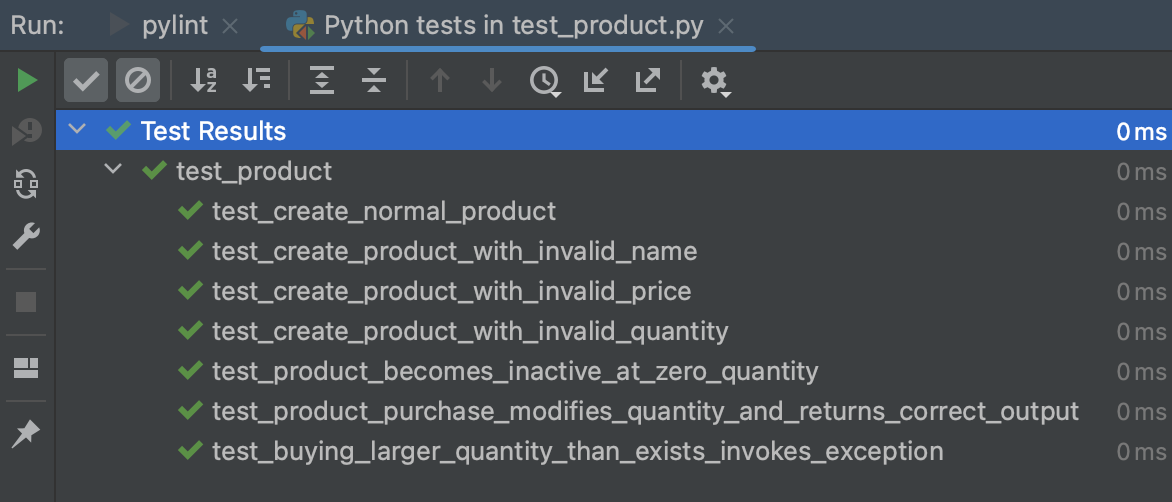
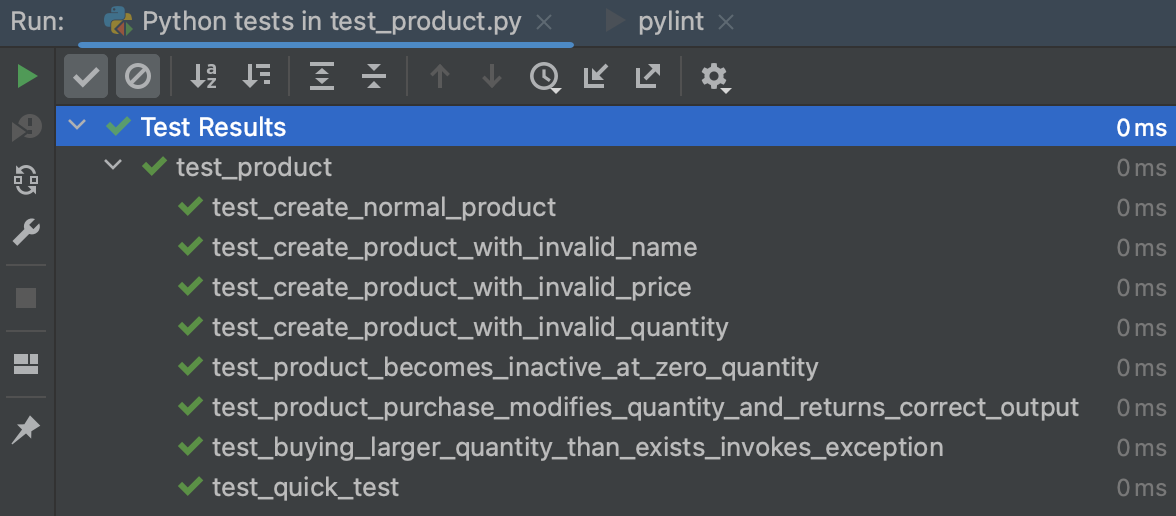
5th commit

diff --git a/store.py b/store.py
@@ -24,62 +24,6 @@ from typing import List, Tuple, Optional
 from products import Product, NonStockedProduct, LimitedProduct
 
 
-def order_intro():
-    """
-	Provides an introduction to the ordering process.
-	"""
-    # start the shopping
-    print("\nEnter the number of the item you want to order (or 0 to cancel)")
-    # When you want to finish order, enter empty text.
-    print("To proceed with the checkout, simply input an empty text.")
-
-
-def make_option_list(start: int, end: int) -> List[str]:
-    """
-	Create a list of string options based on the provided range.
-
-	:param start: (int) The starting number of the range (inclusive)
-	:param end: (int) The ending number of the range (exclusive)
-
-	:return: (List[str]) A list of string options.
-	"""
-    # prepare the valid options menu
-    options = []
-    for num in range(start, end):
-        options.append(str(num))
-    options.append("")
-    return options
-
-
-def find_quantity_of_added_item(lst, product_name):
-    """
-    Search for a specific product by its name and returns the quantity that has been ordered
-
-    :param lst: (list) The order list, a list of tuples containing product name and its quantity.
-    :param product_name: (str) The name of the product to search for in the list.
-
-    :return: int: The quantity of the product that has been ordered if found, -1 otherwise.
-    """
-    for name, items_count in lst:
-        if name == product_name:
-            return items_count
-    return -1
-
-
-def display_limit_message(product_limit, product_name):
-    """
-    Displays a limit message indicating the maximum allowed quantity for a product.
-
-    :param product_limit: (int): The maximum allowed quantity for the product.
-    :param product_name: (str): The name of the product.
-    :return: None
-    """
-    if product_limit == 1:
-        print(f"Sorry, Only {product_limit} unit is allowed from {product_name}.")
-    else:
-        print(f"Sorry, Only {product_limit} units are allowed from {product_name}.")
-
-
 class Store:
     """
 	A class representing a store
@@ -98,6 +42,62 @@ class Store:
 	"""
     # The maximum number of items allowed as per the policy
     OUR_POLICY_MAX_ALLOWED_ITEMS = 10000
+
+    @classmethod
+    def order_intro(cls):
+        """
+    	Provides an introduction to the ordering process.
+    	"""
+        # start the shopping
+        print("\nEnter the number of the item you want to order (or 0 to cancel)")
+        # When you want to finish order, enter empty text.
+        print("To proceed with the checkout, simply input an empty text.")
+
+    @classmethod
+    def make_option_list(cls, start: int, end: int) -> List[str]:
+        """
+    	Create a list of string options based on the provided range.
+
+    	:param start: (int) The starting number of the range (inclusive)
+    	:param end: (int) The ending number of the range (exclusive)
+
+    	:return: (List[str]) A list of string options.
+    	"""
+        # prepare the valid options menu
+        options = []
+        for num in range(start, end):
+            options.append(str(num))
+        options.append("")
+        return options
+
+    @classmethod
+    def find_quantity_of_added_item(cls, lst, product_name):
+        """
+        Search for a specific product by its name and returns the quantity that has been ordered
+
+        :param lst: (list) The order list, a list of tuples containing product name and its quantity.
+        :param product_name: (str) The name of the product to search for in the list.
+
+        :return: int: The quantity of the product that has been ordered if found, -1 otherwise.
+        """
+        for name, items_count in lst:
+            if name == product_name:
+                return items_count
+        return -1
+
+    @classmethod
+    def display_limit_message(cls, product_limit, product_name):
+        """
+        Displays a limit message indicating the maximum allowed quantity for a product.
+
+        :param product_limit: (int): The maximum allowed quantity for the product.
+        :param product_name: (str): The name of the product.
+        :return: None
+        """
+        if product_limit == 1:
+            print(f"Sorry, Only {product_limit} unit is allowed from {product_name}.")
+        else:
+            print(f"Sorry, Only {product_limit} units are allowed from {product_name}.")
 
     def __init__(self, products):
         """
@@ -242,7 +242,7 @@ class Store:
 
             if stoked_item:
                 previously_added_quantity = \
-                    find_quantity_of_added_item(order_list, items_list[selected_index].name)
+                    Store.find_quantity_of_added_item(order_list, items_list[selected_index].name)
             else:
                 previously_added_quantity = -1  # we don't care if it is non stocked items
             quantity = self.valid_range("What amount do you want? ", range(1, max_num), stoked_item,
@@ -251,7 +251,7 @@ class Store:
             if isinstance(items_list[selected_index], LimitedProduct):
                 temp_product: LimitedProduct = items_list[selected_index]
                 if quantity > temp_product.get_limit():
-                    display_limit_message(temp_product.limit, items_list[selected_index])
+                    Store.display_limit_message(temp_product.limit, items_list[selected_index])
                     continue
 
             # if quantity is zero then cancel the current process and ignore it.
@@ -309,10 +309,10 @@ class Store:
                   "Please visit us again later! ---")
             return
 
-        order_intro()
+        Store.order_intro()
 
         # prepare the valid options menu
-        options = make_option_list(0, max_num + 1)
+        options = Store.make_option_list(0, max_num + 1)
 
         # if this is the first purchase or not
         order_list = self.init_order_list()
@@ -511,7 +511,6 @@ class Store:
             if option.isdigit():
                 if start <= int(option) <= end:
                     if non_stocked_product:
-                        # print("Already added = ", items_allready_added)
                         if previously_added_quantity > -1:
                             max_items = end - previously_added_quantity
                         else:

diff --git a/test_product.py b/test_product.py
@@ -1,5 +1,7 @@
 import pytest
-from products import Product
+from products import Product, LimitedProduct
+from store import Store
+
 
 
 def test_create_normal_product():
@@ -71,3 +73,40 @@ def test_buying_larger_quantity_than_exists_invokes_exception():
     with pytest.raises(ValueError, match=f"The {product.name} has insufficient quantity available."):
         product.buy(10)
 
+
+def test_quick_test():
+    """
+    Performs a quick test of the functionality of the Store and Product classes.
+
+    The test includes the following steps:
+    1. Initializes the initial stock of inventory with specific products.
+    2. Attempts to set a negative price for a product, which should raise a ValueError.
+    3. Prints the details of the 'mac' product, including its name, price, quantity, and promotion.
+    4. Compares the 'mac' product with the 'bose' product, printing True if the 'mac' price is
+        higher.
+    5. Checks if the 'mac' product is present in the 'best_buy' store, printing True if it is.
+    6. Checks if the 'pixel' product is present in the 'best_buy' store,
+        printing False if it is not.
+
+    :return: None
+    """
+    # setup initial stock of inventory
+    mac = Product("MacBook Air M2", price=1450, quantity=100)
+    bose = Product("Bose QuietComfort Earbuds", price=250, quantity=500)
+    pixel = LimitedProduct("Google Pixel 7", price=500, quantity=250, limit=1)
+    best_buy = Store([mac, bose])
+
+    print("\n ---> Executing a quick test as requested in the exercise to verify\n"
+          " the functionality of the magic methods. <---")
+
+    try:
+        mac.price = -100  # Should give error
+    except ValueError as error:
+        print("Error:", str(error))
+
+    print(mac)  # Should print 'MacBook Air M2, Price: $1450 Quantity:100, Promotion: None'
+    print(mac > bose)  # Should print True
+    print(mac in best_buy)  # Should print True
+    print(pixel in best_buy)  # Should print False
+
+    print(" ---> The test was successfully completed. <---\n")

diff --git a/main.py b/main.py
@@ -139,44 +139,5 @@ def main():
     start(best_buy)
 
 
-def quick_test():
-    """
-    Performs a quick test of the functionality of the Store and Product classes.
-
-    The test includes the following steps:
-    1. Initializes the initial stock of inventory with specific products.
-    2. Attempts to set a negative price for a product, which should raise a ValueError.
-    3. Prints the details of the 'mac' product, including its name, price, quantity, and promotion.
-    4. Compares the 'mac' product with the 'bose' product, printing True if the 'mac' price is
-        higher.
-    5. Checks if the 'mac' product is present in the 'best_buy' store, printing True if it is.
-    6. Checks if the 'pixel' product is present in the 'best_buy' store,
-        printing False if it is not.
-
-    :return: None
-    """
-    # setup initial stock of inventory
-    mac = Product("MacBook Air M2", price=1450, quantity=100)
-    bose = Product("Bose QuietComfort Earbuds", price=250, quantity=500)
-    pixel = LimitedProduct("Google Pixel 7", price=500, quantity=250, limit=1)
-    best_buy = Store([mac, bose])
-
-    print("\n ---> Executing a quick test as requested in the exercise to verify\n"
-          " the functionality of the magic methods. <---")
-
-    try:
-        mac.price = -100  # Should give error
-    except ValueError as error:
-        print("Error:", str(error))
-
-    print(mac)  # Should print 'MacBook Air M2, Price: $1450 Quantity:100, Promotion: None'
-    print(mac > bose)  # Should print True
-    print(mac in best_buy)  # Should print True
-    print(pixel in best_buy)  # Should print False
-
-    print(" ---> The test was successfully completed. <---\n")
-
-
 if __name__ == "__main__":
-    quick_test()
     main()
